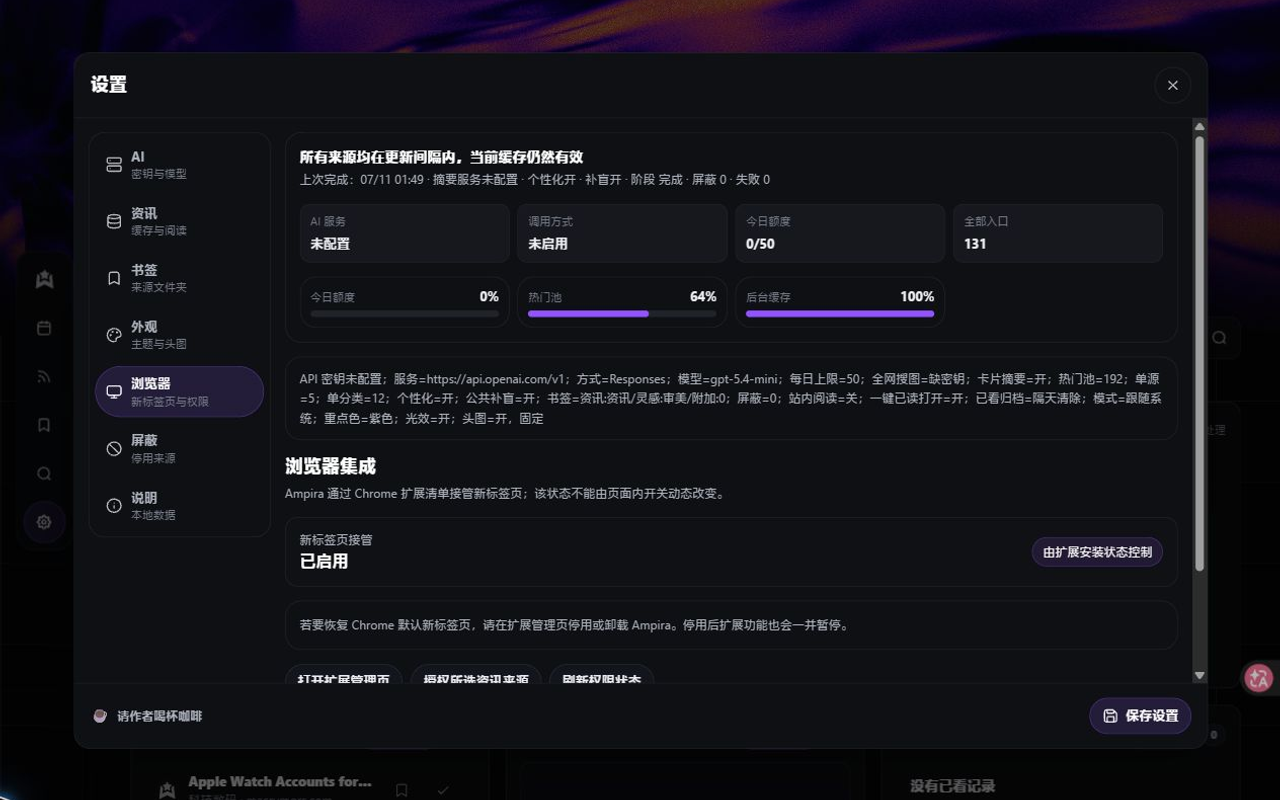
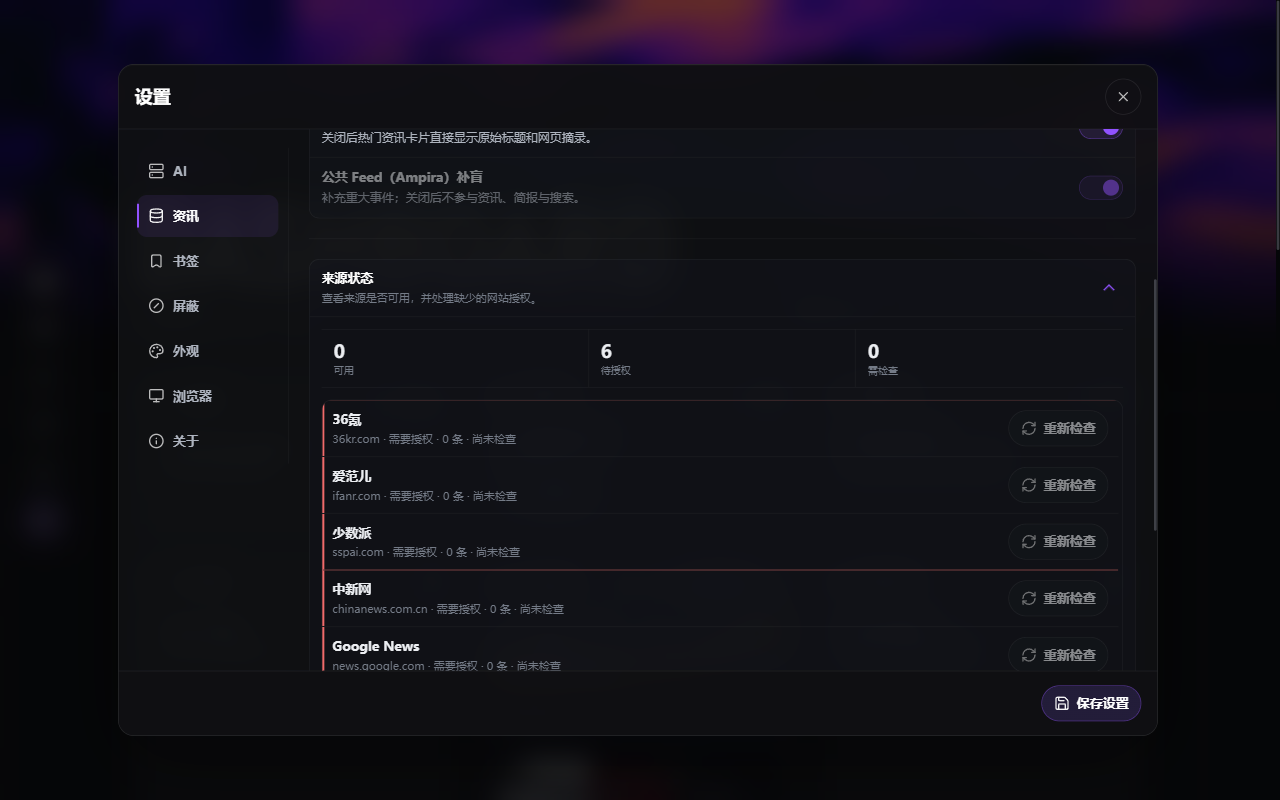
fix: align Edge onboarding and refresh store assets

diff --git a/design-qa.md b/design-qa.md
@@ -196,3 +196,11 @@ $env:REQUIRED_SUPPORT_URL = "https://github.com/sunpanran/Ampira/issues"
 - 普通问题的首轮 AI 回答完成后会保留在当前搜索弹窗，并将输入框切换为连续追问；文章总结原有的网页追问能力保持不变。
 - 普通问答上下文仅携带受限的首问、首答和最近 6 轮已完成问答；每次追问都会重新检索当前仍获准访问的 Ampira 内容，并在调用服务前复检来源权限。普通追问不写入持久 AI 搜索缓存。
 - 简体中文、繁体中文和英文的追问状态、输入提示及系统提示词同步补齐；新增普通上下文边界和服务链路测试。`node tests/extension.mjs` 通过；由于当前 Windows PowerShell 7 进程会话不可用，未能执行 `.\scripts\verify-extension.ps1`。本次未执行加载已解压扩展后的手动 Chrome/Edge QA。
+
+## 2026-07-17 — 26.2.8 发布候选浏览器验证
+
+- 使用隔离配置从仓库根目录加载未打包扩展。Playwright Chromium 完成四步引导、无网站权限降级、深色 `1280×800`、浅色 `1440×1000`、浅色 `390×844` 和减少动态效果复核；页面横向溢出为 `0`，控制台错误与警告为 `0`。
+- Microsoft Edge `150.0.0.0` 成功接管 `edge://newtab`，完成四步引导和无权限降级；“设置 → 浏览器”显示原生 favicon 不受支持并使用随包图标，“打开扩展管理页”实际打开 `edge://extensions/`。窄屏横向溢出为 `0`，控制台错误与警告为 `0`。
+- Edge 实测发现首次引导仍显示“授权网站并启用图标”；现已按浏览器能力切换三语按钮文案，Edge 只显示“授权网站”，并保留不请求 `favicon` 权限的既有行为和自动化约束。
+- 商店 Dashboard、精确来源权限和 AI 设置截图已从隔离配置重新捕获为 `1280×800`，不含真实 API Key、私人书签、个人浏览资料或运行时缓存。
+- 当前受管理的正式 Chrome 忽略命令行加载未打包扩展，因此本次不声称完成真实 Chrome QA。Chrome 权限授予/撤销、工具栏 `activeTab` 捕获、真实网络 Reader、非生产 AI Provider、双实例 Sync、恢复出厂设置，以及 Edge 垂直标签页与分屏仍需在商店私有测试前人工完成。

diff --git a/store/edge-submission-checklist.md b/store/edge-submission-checklist.md
@@ -4,10 +4,10 @@
 
 ## Edge compatibility QA
 
-- [ ] 从 `edge://extensions` 加载仓库根目录，确认 Manifest、Service Worker 和控制台无错误。
-- [ ] 打开 `edge://newtab` 完成四步引导；精确网站权限不得依赖或请求 Chrome 专属 `favicon` 权限。
-- [ ] “设置 → 浏览器”应说明网站图标不受支持、隐藏权限开关并稳定使用随包图标。
-- [ ] 扩展管理操作打开 `edge://extensions/`；不得声称 Ampira 能控制 Edge 的新标签页浏览器外壳图标。
+- [x] 从 `edge://extensions` 加载仓库根目录，确认 Manifest、Service Worker 和控制台无错误。
+- [x] 打开 `edge://newtab` 完成四步引导；精确网站权限不得依赖或请求 Chrome 专属 `favicon` 权限。
+- [x] “设置 → 浏览器”应说明网站图标不受支持、隐藏权限开关并稳定使用随包图标。
+- [x] 扩展管理操作打开 `edge://extensions/`；不得声称 Ampira 能控制 Edge 的新标签页浏览器外壳图标。
 - [ ] 启用并撤销顶部搜索权限，确认使用 Edge 当前默认搜索服务，撤权后恢复 Ampira 内容搜索。
 - [ ] 使用合成数据验证工具栏捕获、只读书签、alarms、精确来源权限、恢复出厂设置和两个已登录 Edge 实例间的可选同步。
 - [ ] 在水平标签、垂直标签和分屏中复核深浅主题、键盘焦点、减少动态效果及基准视口，无横向溢出和控制台错误。